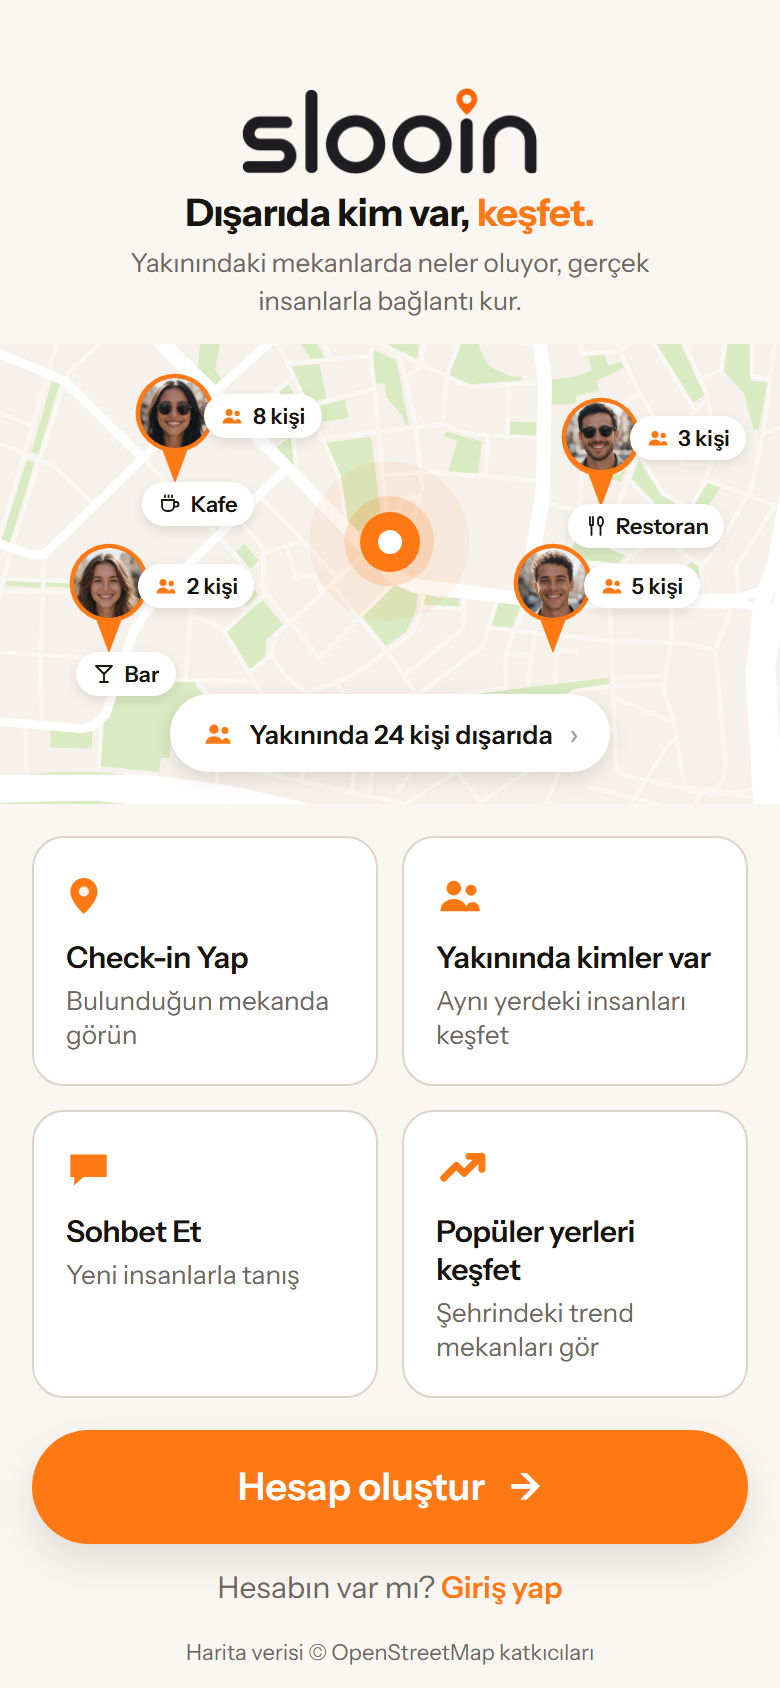
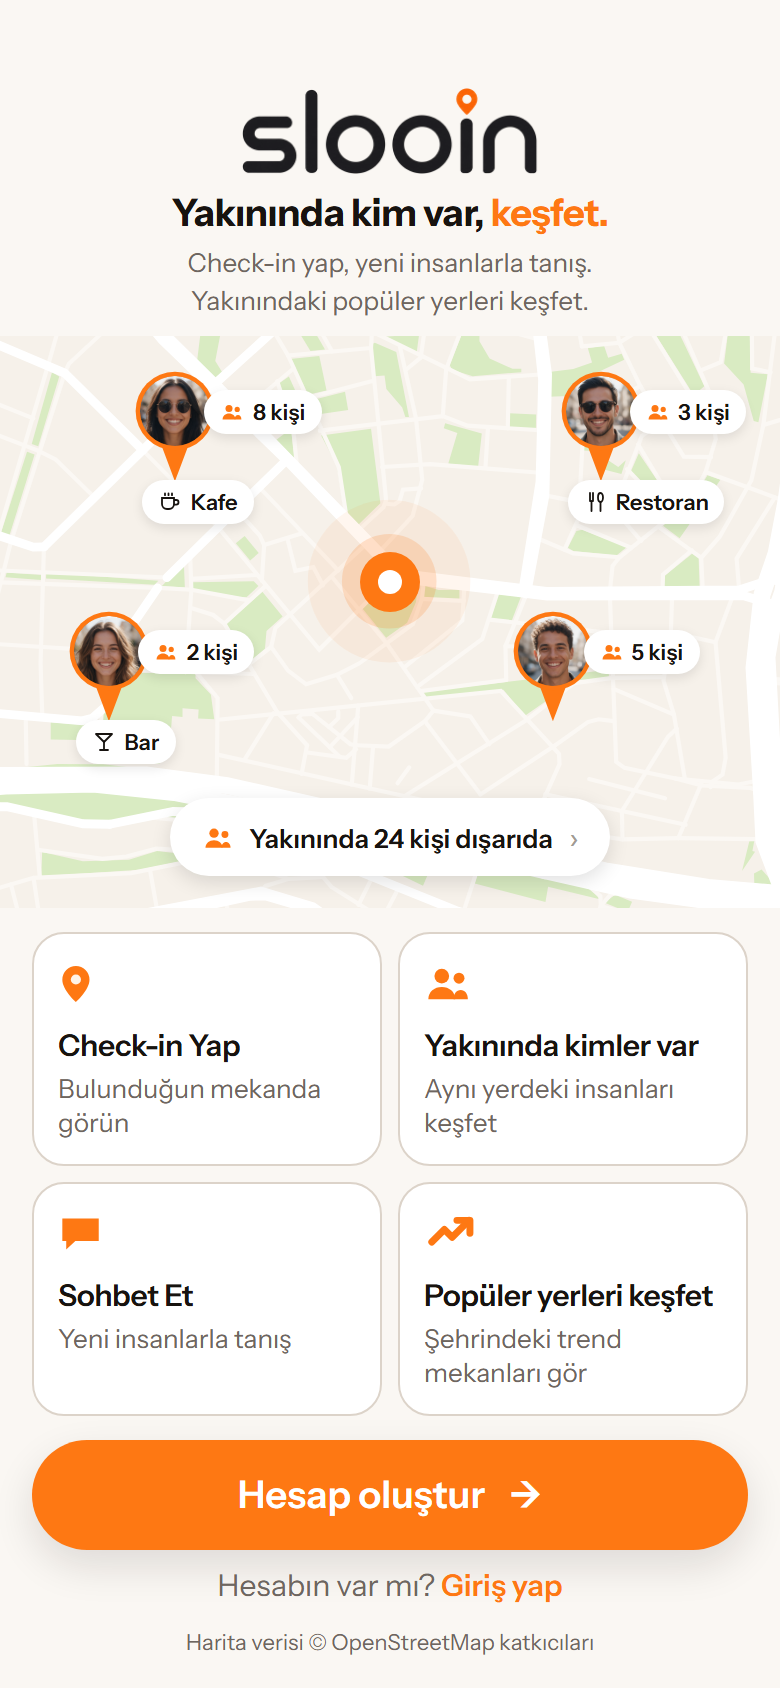
fix(karsilama): yeni baslik/alt yazi ve kucuk ekranda tasan atif
Kullanicinin uc istegi:
- Baslik "Disarida kim var, kesfet." -> "Yakininda kim var, kesfet."
- Alt yazi: "Check-in yap, yeni insanlarla tanis. / Yakinindaki populer
  yerleri kesfet." Satir sonu ELLE veriliyor; dogal sarmaya birakilirsa
  kirilma cumlenin ortasina duesuyor.
- "Harita verisi (c) OpenStreetMap katkicilari" ekrana sigmiyordu.

TASMANIN KOK NEDENI: ekran kaydirilamayan duz bir View'di ve icerik
telefonda ekrandan uzundu. Web'de gorunmuyordu cunku tarayicida guvenli
alan insetleri SIFIR; telefonda ust ~59 + alt ~34 pt gidiyor. Ekran
goruntusu araci viewport olcusunu argumanla aldigi icin 390x751 (844
eksi insetler) tasmayi birebir uretti: once giris satiri kesiliyor,
atif hic gorunmuyordu.

Uc katmanli cozum: kok View -> ScrollView (contentContainerStyle icinde
flexGrow: 1, yani sigan ekranda kaydirma hic olusmuyor), alt guvenli
alan payi, ve dikey bosluklarin kisilmasi.

Ignelerin dikey araligi da degisti (%20/%52 -> %13/%55): sahne flex
oldugu icin kisa telefonlarda 165 px'e iniyor ve o yukseklikte ust
ignenin tur hapi ile alt ignenin kisi hapi cakisiyordu. Yuzde konumlar
sabit oldugu icin aralik en dar sahneye gore secilmeli.

jest 64 paket / 727 test yesil, tsc uygulama kodunda 0 hata; hem
390x844 hem 390x751'de ekran goruntusuyle dogrulandi.

Claude-Session: https://claude.ai/code/session_0147kohQ2crdMwyW7akyN9Sq

diff --git a/mobil/src/app/(auth)/karsilama.tsx b/mobil/src/app/(auth)/karsilama.tsx
@@ -1,4 +1,4 @@
-import { View, Text, Pressable, StyleSheet } from 'react-native'
+import { View, Text, Pressable, ScrollView, StyleSheet } from 'react-native'
 import { useRouter } from 'expo-router'
 import { useSafeAreaInsets } from 'react-native-safe-area-context'
 import Svg, { Path, Circle, G } from 'react-native-svg'
@@ -140,7 +140,28 @@ export default function KarsilamaEkrani() {
   return (
     // Guvenli alana bir TABAN veriliyor: web'de `insets.top` sifir
     // dondugu icin marka ekranin en tepesine yapisiyordu.
-    <View style={[stiller.sayfa, { paddingTop: Math.max(guvenliAlan.top, 26) + UST_PAY }]}>
+    // KAYDIRILABILIR, ama yalnizca GEREKIRSE: `flexGrow: 1` icerigi
+    // ekrana yayiyor, dolayisiyla sigan ekranlarda kaydirma hic
+    // olusmuyor. Kok duz bir `View` iken kucuk ekranlarda en alttaki
+    // ODbL atfi disarida kaliyordu ve geri getirmenin yolu yoktu
+    // (kullanicinin ekran goruntusu; 390x751'de olcuIerek dogrulandi).
+    <ScrollView
+      style={stiller.sayfa}
+      bounces={false}
+      showsVerticalScrollIndicator={false}
+      contentContainerStyle={[
+        stiller.icerik,
+        {
+          paddingTop: Math.max(guvenliAlan.top, 26) + UST_PAY,
+          // ALT GUVENLI ALAN: telefonda ana sayfa cubugu icin ~34 pt
+          // inset var, web'de 0. Sabit bir alt payla en alttaki ODbL
+          // atfi telefonda ekranin disinda kaliyordu (kullanicinin
+          // ekran goruntusu). Bu ekran kaydirilmiyor, yani tasan sey
+          // geri getirilemiyor.
+          paddingBottom: Math.max(guvenliAlan.bottom, bosluk.s) + bosluk.s,
+        },
+      ]}
+    >
       <MarkaYazisi genislik={148} style={stiller.marka} />
 
       {/* VAAT: tek cumle, vurgu kelimesi turuncu. Turuncunun mesru
@@ -186,7 +207,7 @@ export default function KarsilamaEkrani() {
       {/* ODbL ATFI - hukuken sart, tercih degil. Sahnedeki harita
           OpenStreetMap verisinden turetilmis bir eser. */}
       <Text style={stiller.atif}>{t('karsilama.haritaAtfi')}</Text>
-    </View>
+    </ScrollView>
   )
 }
 
@@ -196,8 +217,11 @@ const stilleriYap = (renk: Renk) =>
       flex: 1,
       // Karsilama, beyaz zemin kuralinin TEK istisnasi.
       backgroundColor: renk.karsilamaZemini,
+    },
+    icerik: {
+      // Icerik ekrani doldurur; sahne `flex: 1` ile kalan yeri alir.
+      flexGrow: 1,
       paddingHorizontal: bosluk.sayfa,
-      paddingBottom: bosluk.l,
     },
 
     marka: { alignSelf: 'center' },
@@ -227,16 +251,16 @@ const stilleriYap = (renk: Renk) =>
     // veriyor - referansta da harita kenardan kenara.
     sahne: {
       flex: 1,
-      minHeight: 230,
+      minHeight: 165,
       marginHorizontal: -bosluk.sayfa,
-      marginTop: bosluk.m,
+      marginTop: bosluk.s,
     },
 
     kartlar: {
       flexDirection: 'row',
       flexWrap: 'wrap',
-      gap: bosluk.m,
-      marginTop: bosluk.l,
+      gap: bosluk.s,
+      marginTop: bosluk.m,
     },
     kart: {
       // Iki sutun: satirin yarisindan aradaki boslugun yarisi kadar az.
@@ -246,7 +270,7 @@ const stilleriYap = (renk: Renk) =>
       borderRadius: yuvarlak.kart,
       borderWidth: 1,
       borderColor: renk.cizgi,
-      padding: bosluk.l,
+      padding: bosluk.m,
       gap: bosluk.xs,
     },
     kartBaslik: {
@@ -270,8 +294,8 @@ const stilleriYap = (renk: Renk) =>
       gap: bosluk.m,
       backgroundColor: renk.turuncu,
       borderRadius: yuvarlak.hap,
-      paddingVertical: 17,
-      marginTop: bosluk.l,
+      paddingVertical: 16,
+      marginTop: bosluk.m,
       ...golge.yuzer,
     },
     birincilBasili: { backgroundColor: renk.turuncuBasili },
@@ -286,7 +310,7 @@ const stilleriYap = (renk: Renk) =>
       color: '#FFFFFF',
     },
 
-    ikincil: { alignItems: 'center', paddingVertical: bosluk.m },
+    ikincil: { alignItems: 'center', paddingVertical: bosluk.s },
     ikincilYazi: { fontFamily: yazi.govde, fontSize: olcek.govde, color: renk.metinIkincil },
     ikincilVurgu: { fontFamily: yazi.govdeKalin, color: renk.turuncuYazi },
 

diff --git a/mobil/src/tasarim/KarsilamaSahnesi.tsx b/mobil/src/tasarim/KarsilamaSahnesi.tsx
@@ -103,6 +103,12 @@ type Igne = {
  * Dort igne - konum ve sayilar referans gorselden OLCULDU (853 px
  * genislikteki gorselde daire merkezleri).
  *
+ * DIKEY ARALIK ust/alt %13 ve %55: sahne EKRANA GORE esniyor ve kisa
+ * bir telefonda 165 px'e kadar iniyor. Once %20/%52 idi ve o
+ * yukseklikte ust ignenin tur hapi ile alt ignenin kisi hapi
+ * cakisiyordu (390x751'de olcuIdue). Yuzde konumlar sabit oldugu icin
+ * aralik EN DAR sahneye gore secilmeli.
+ *
  * CAPLAR ESITLENDI (2026-09-08, kullanicinin istegi "3 profil
  * gorunenleri teke duesuer"): referansta kalabalik iginler daha buyuk
  * bir daireydi cunku icinde UC yuzluk kolaj vardi. Tek yuze duesuence
@@ -117,10 +123,10 @@ type Igne = {
  * tahmin edilmedi.
  */
 const IGNELER: Igne[] = [
-  { ad: 'kafe', x: 22.5, y: 15, cap: 10.5, kisi: 8, turAnahtari: 'turKafe' },
-  { ad: 'restoran', x: 77, y: 20, cap: 10.5, kisi: 3, turAnahtari: 'turRestoran' },
-  { ad: 'bar', x: 14, y: 52, cap: 10.5, kisi: 2, turAnahtari: 'turBar' },
-  { ad: 'etkinlik', x: 71, y: 52, cap: 10.5, kisi: 5 },
+  { ad: 'kafe', x: 22.5, y: 13, cap: 10.5, kisi: 8, turAnahtari: 'turKafe' },
+  { ad: 'restoran', x: 77, y: 13, cap: 10.5, kisi: 3, turAnahtari: 'turRestoran' },
+  { ad: 'bar', x: 14, y: 55, cap: 10.5, kisi: 2, turAnahtari: 'turBar' },
+  { ad: 'etkinlik', x: 71, y: 55, cap: 10.5, kisi: 5 },
 ]
 
 /*

diff --git a/mobil/__tests__/ekranlar/karsilama.test.tsx b/mobil/__tests__/ekranlar/karsilama.test.tsx
@@ -16,10 +16,12 @@ describe('KarsilamaEkrani', () => {
   it('vaat cumlesini iki parca halinde gosterir (vurgu ayri)', async () => {
     await render(<KarsilamaEkrani />)
 
-    expect(await screen.findByText(/Dışarıda kim var,/)).toBeTruthy()
+    expect(await screen.findByText(/Yakınında kim var,/)).toBeTruthy()
     expect(screen.getByText('keşfet.')).toBeTruthy()
     expect(
-      screen.getByText('Yakınındaki mekanlarda neler oluyor, gerçek insanlarla bağlantı kur.')
+      screen.getByText(
+        'Check-in yap, yeni insanlarla tanış.\nYakınındaki popüler yerleri keşfet.'
+      )
     ).toBeTruthy()
   })
 

diff --git a/mobil/lib/ceviriler/tr.ts b/mobil/lib/ceviriler/tr.ts
@@ -28,9 +28,9 @@ export default {
   karsilama: {
     // ACILIS EKRANI - kullanicinin 2026-09-08'de gonderdigi referans
     // gorsele gore yeniden yazildi.
-    baslik: 'Dışarıda kim var, ',
+    baslik: 'Yakınında kim var, ',
     baslikVurgu: 'keşfet.',
-    aciklama: 'Yakınındaki mekanlarda neler oluyor, gerçek insanlarla bağlantı kur.',
+    aciklama: 'Check-in yap, yeni insanlarla tanış.\nYakınındaki popüler yerleri keşfet.',
 
     // Sahnedeki igne etiketleri ve sayilari. Bunlar ORNEK bir sahnedir,
     // veri degildir - referans gorseldeki kompozisyonun parcasi.

diff --git a/CLAUDE.md b/CLAUDE.md
@@ -729,6 +729,50 @@ Yan temizlik: `TurIkonu` artik ignenin ADINA degil ETIKETE bagli
 (`tur` prop'u). Ayni sey iki alandan turetilseydi biri kaldirilinca
 digeri olu kalirdi - nitekim nota ikonu tam oyle oldu ve silindi.
 
+### ACILIS EKRANI: METINLER VE KUCUK EKRAN TASMASI - 2026-09-08
+
+Kullanicinin uc istegi (sirayla geldi):
+
+1. Baslik **"Dışarıda kim var, keşfet."** -> **"Yakınında kim var,
+   keşfet."**
+2. Alt yazi degisti: **"Check-in yap, yeni insanlarla tanış.
+Yakınındaki
+   popüler yerleri keşfet."** Satir sonu ELLE veriliyor - dogal sarmaya
+   birakilirsa kirilma cumlenin ortasina duesuyor.
+3. **"Harita verisi © OpenStreetMap katkicilari" ekrana sigmiyordu.**
+
+**TASMANIN KOK NEDENI OLCULEREK BULUNDU.** Ekran kaydirilamayan duz bir
+`View`di ve icerik telefonda ekrandan uzundu. Web'de gorunmuyordu cunku
+tarayicida guvenli alan insetleri SIFIR; telefonda ust ~59 + alt ~34 pt
+gidiyor. Ekran goruntusu araci artik viewport olcusunu argumanla
+aliyor ve **390x751** (844 eksi insetler) telefondaki tasmayi birebir
+uretiyor:
+
+    node araclar/ekran-goruntusu.mjs karsilama cikti.png 390 751
+
+Olculen: 751 px'te once "Hesabın var mı? Giriş yap" kesiliyordu, atif
+hic gorunmuyordu.
+
+**UC KATMANLI COZUM:**
+- Kok `View` -> **`ScrollView`** (`contentContainerStyle` icinde
+  `flexGrow: 1`). Icerik siginca kaydirma HIC olusmuyor; sigmayinca
+  geri getirilebiliyor. Onceki halde tasan sey kaybediliyordu.
+- **Alt guvenli alan payi** eklendi: `guvenliAlan.bottom` sabit bir
+  degerin yerine geciyor.
+- Dikey bosluklar kisildi (kart dolgusu, kartlar arasi bosluk, buton ve
+  ikincil eylem paylari, sahne alt siniri 230 -> 165).
+
+**IGNELERIN DIKEY ARALIGI DA DEGISTI** (%20/%52 -> %13/%55): sahne
+`flex` oldugu icin kisa telefonlarda 165 px'e iniyor ve o yukseklikte
+ust ignenin tur hapi ile alt ignenin kisi hapi CAKISIYORDU. Yuzde
+konumlar sabit oldugu icin aralik EN DAR sahneye gore secilmeli.
+
+**TUZAK, iki kez yasandi:** `tr.ts` ve test dosyasina Python'la `
+`
+yazarken kacis kayboluyor ve dosyaya GERCEK satir sonu giriyor; sonuc
+"unterminated string" ve jest'in dosyayi hic ayristiramamasi. Ters
+boluyu `chr(92)` ile kurmak gerekiyor.
+
 ### AYNI EKRAN, KULLANICININ UC DUZELTMESI - 2026-09-08
 
 Kullanici ilk gecuisi telefonda gorup uc sey istedi: "Ayni yerde 3
